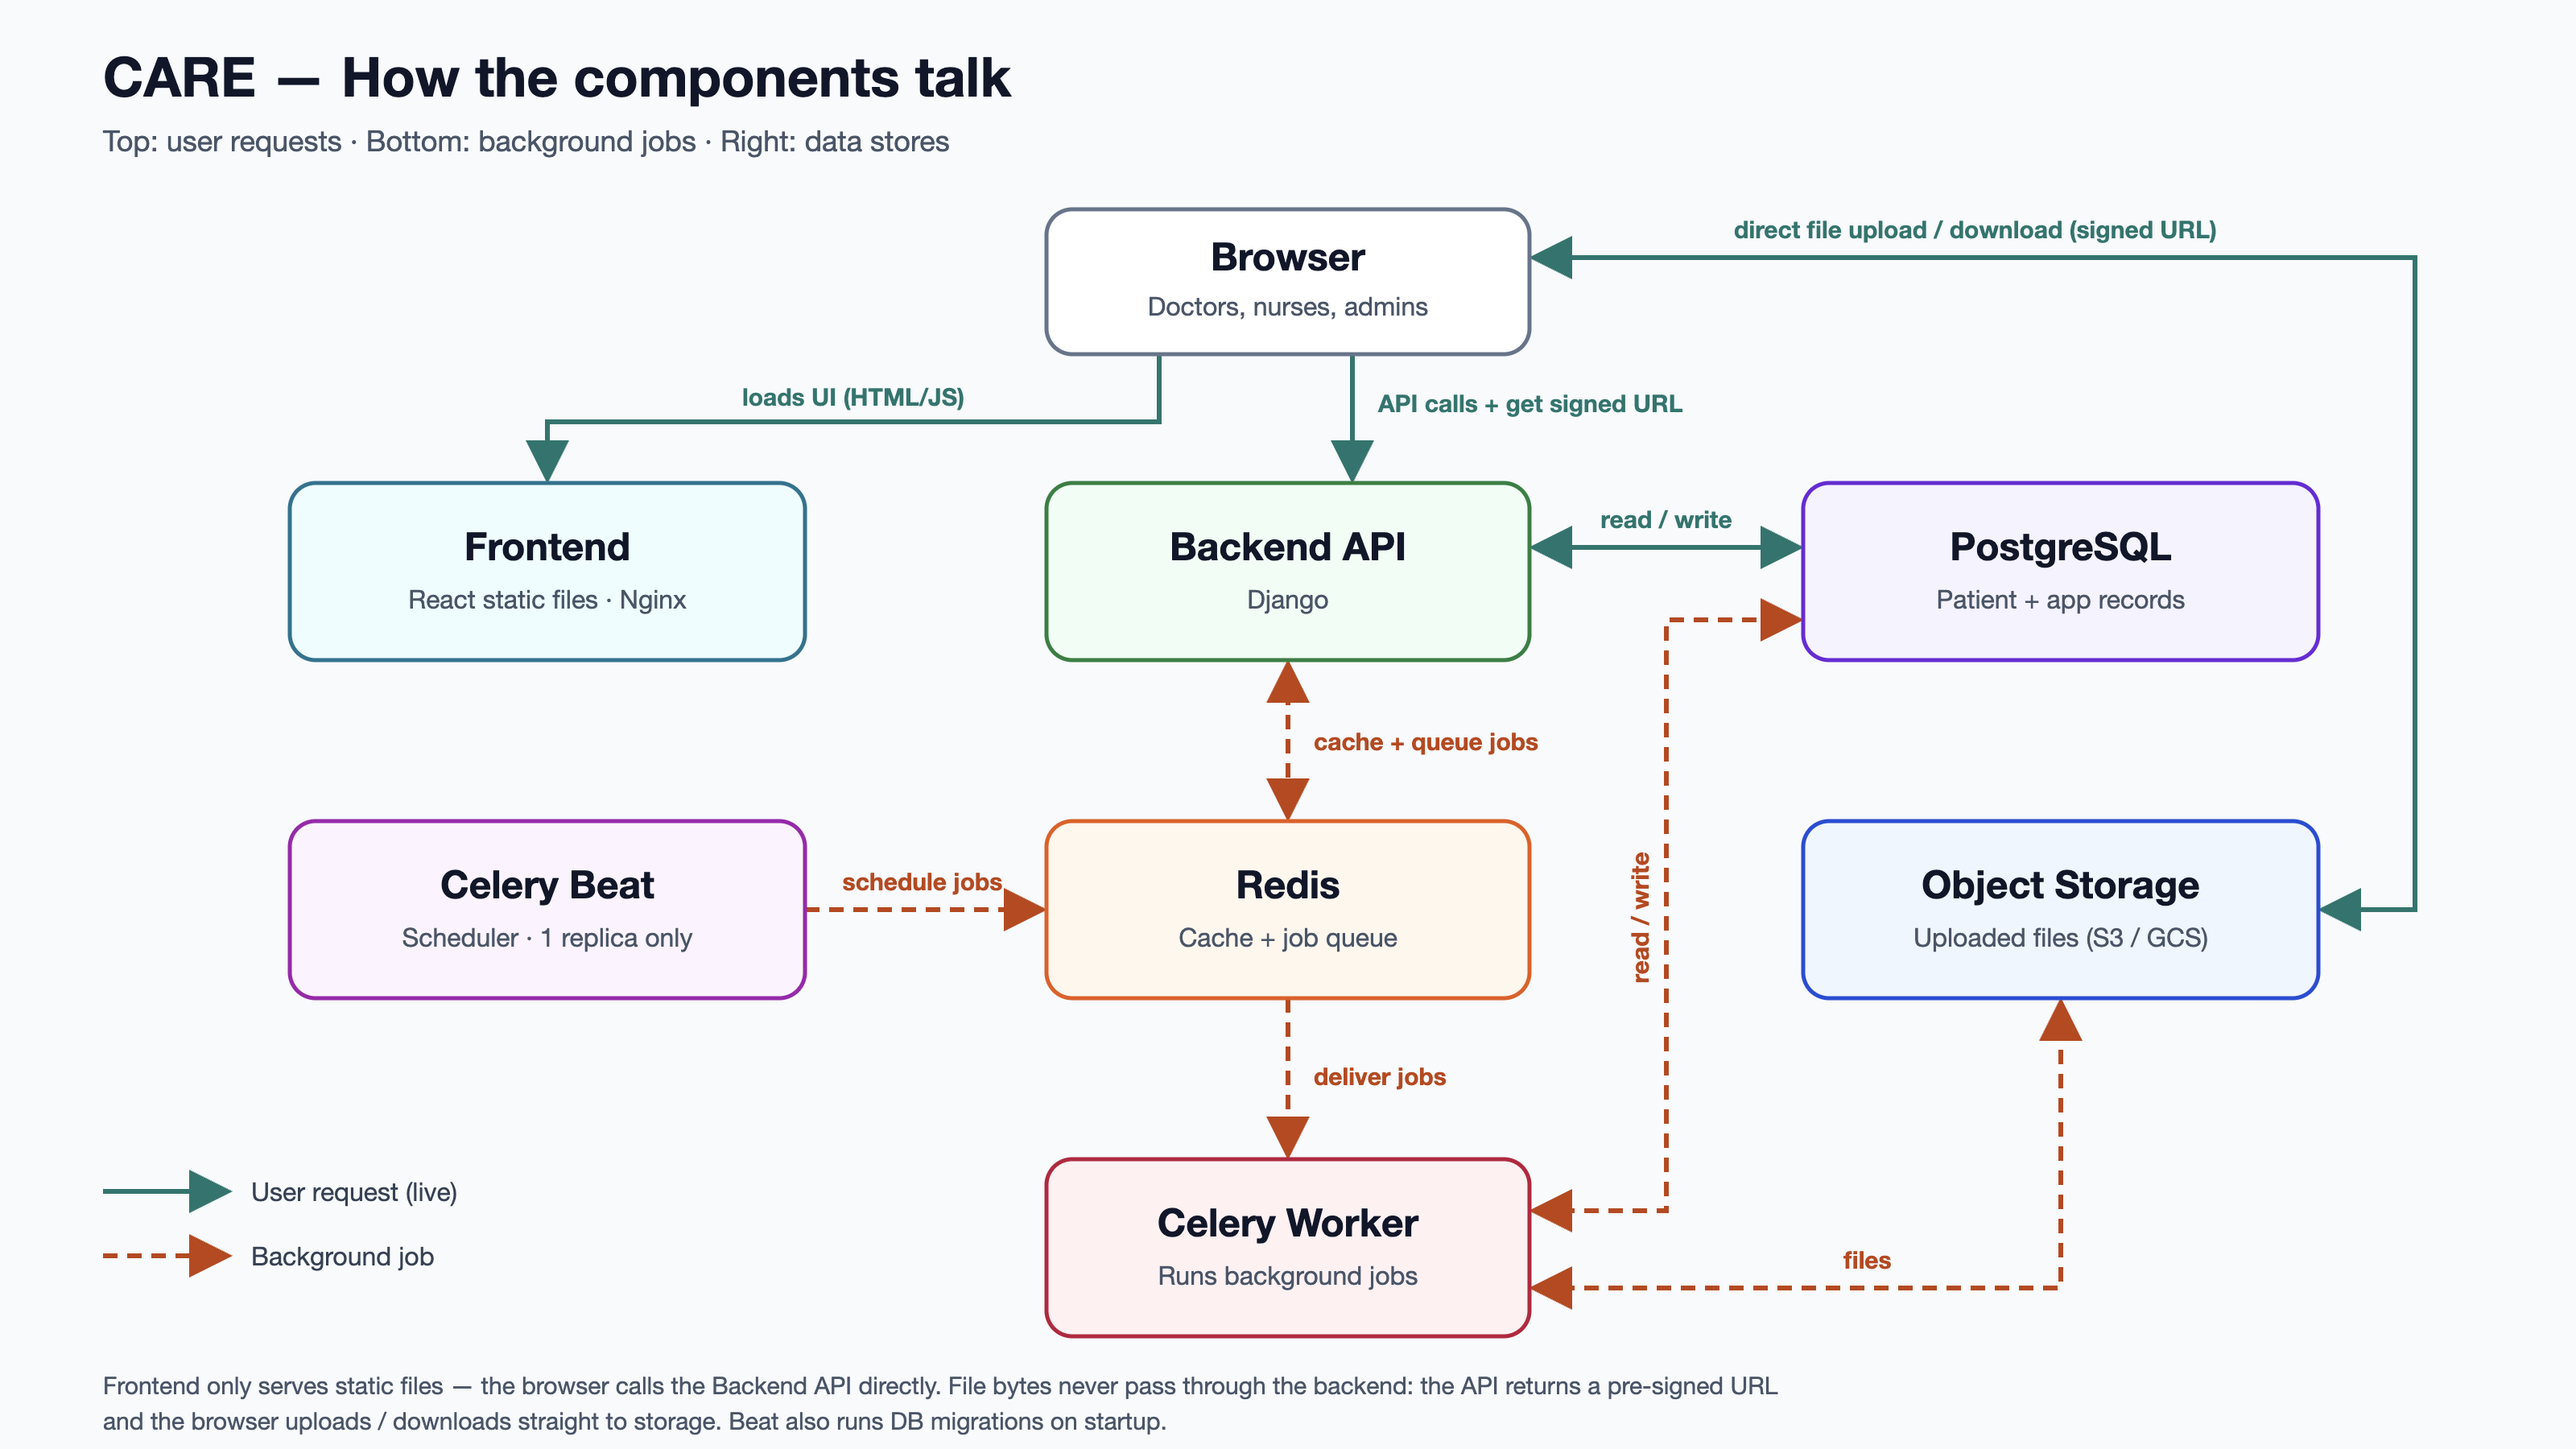
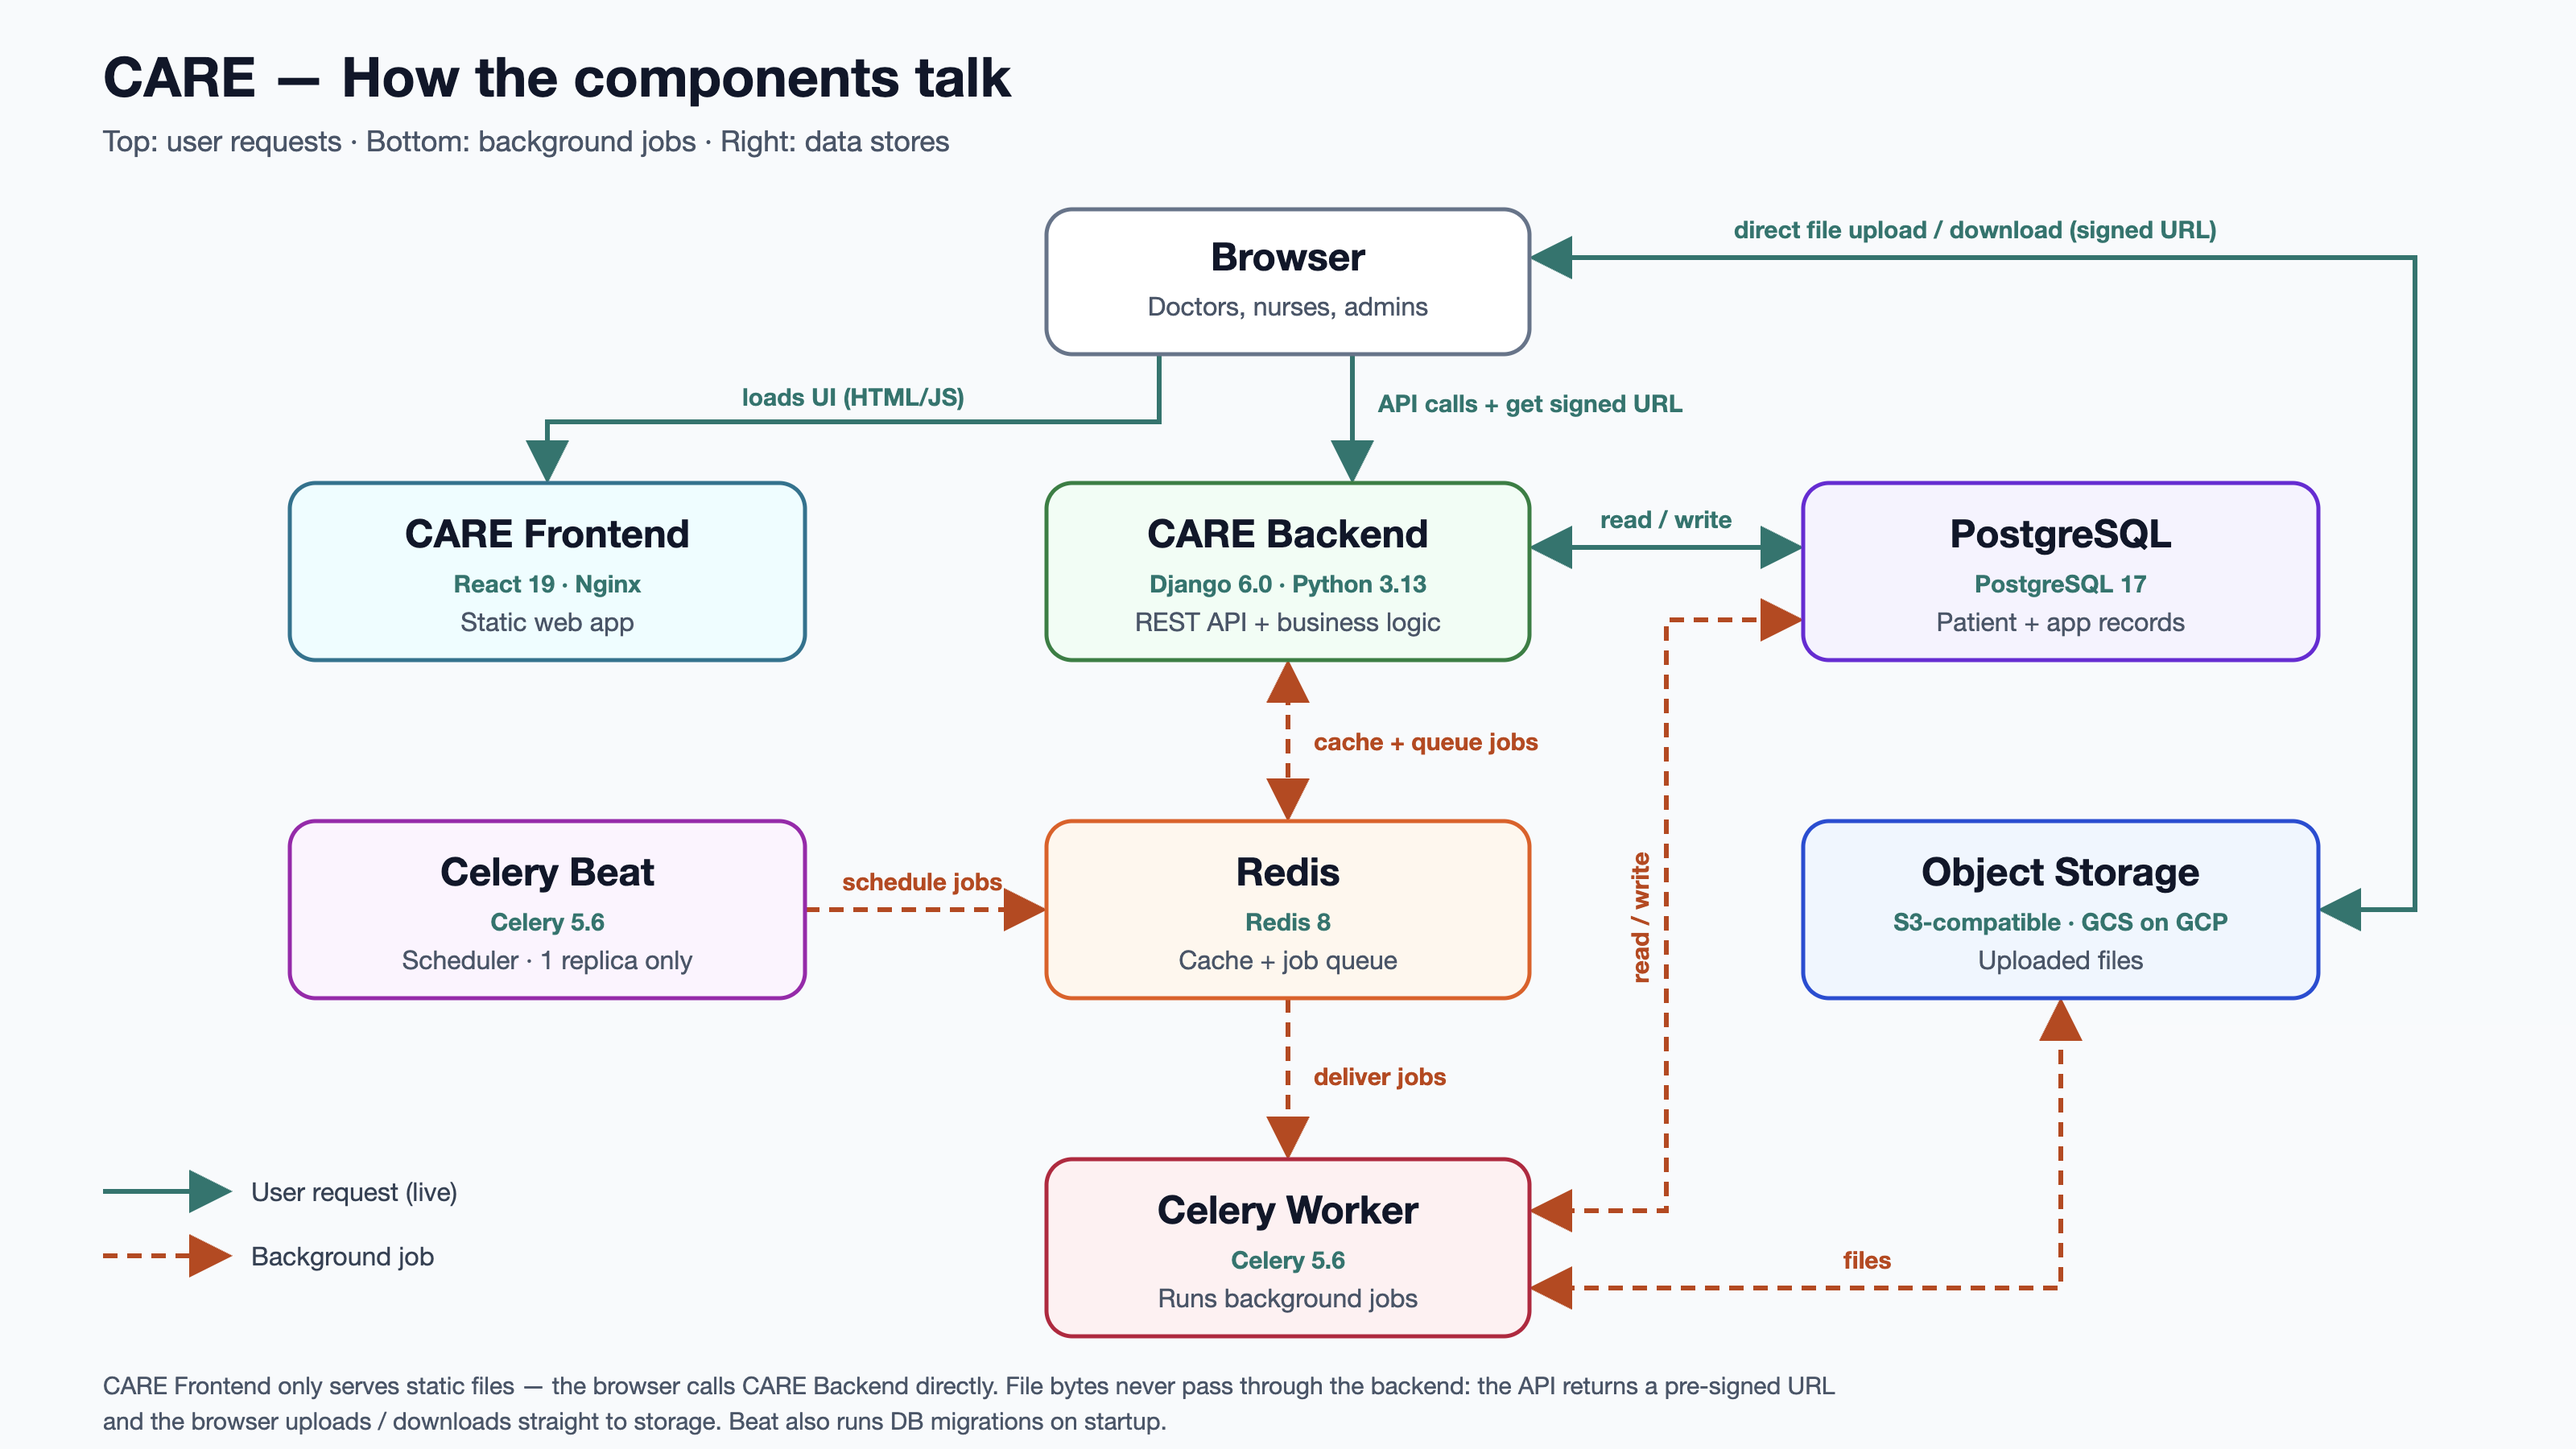
Merge tech table into diagram: versions in boxes, drop slide 3

diff --git a/docs/infra-session.html b/docs/infra-session.html
@@ -65,7 +65,7 @@
   .cover .r li{font:500 26px Switzer,sans-serif;margin:14px 0;list-style:none;color:#fff}
   .cover .r li::before{content:"/ ";color:var(--lime)}
   .diagram{flex:1;display:flex;align-items:center;justify-content:center}
-  .diagram img{max-width:100%;max-height:560px;background:#fff;border:1px solid var(--line);border-radius:12px;padding:12px}
+  .diagram img{max-width:100%;max-height:630px;background:#fff;border:1px solid var(--line);border-radius:12px;padding:12px}
   a{color:inherit;text-decoration:underline;text-decoration-color:var(--teal-2);text-underline-offset:3px} .cover .r a{color:#fff;text-decoration-color:var(--lime)}
   table.compact{font-size:17px} table.compact td{padding:7px 10px}
   .note{border:1px solid var(--line);border-left:4px solid var(--teal);background:#fff;padding:14px 20px;border-radius:10px;font-size:19px}
@@ -91,27 +91,10 @@
 <section class="slide">
   <div class="kicker">Infra requirements · Tech stack</div>
   <h1>How the pieces talk to each other</h1>
-  <div class="diagram"><img src="tech-stack-runtime-diagram-v6.svg" alt="CARE runtime diagram"></div>
-  <p class="src">Browser loads the React bundle from Nginx, then calls the Django API. For files, the API returns a pre-signed URL and the browser uploads/downloads directly to object storage — file bytes never pass through the backend. Celery workers read/write storage directly. Beat is the single scheduler.</p>
+  <div class="diagram"><img src="tech-stack-runtime-diagram-v6.svg?v=2" alt="CARE runtime diagram"></div>
 </section>
 
 <!-- 3 -->
-<section class="slide">
-  <div class="kicker">Infra requirements · Tech stack</div>
-  <h1>Technology per component</h1>
-  <table>
-    <tr><th>Component</th><th>Technology</th><th>What it does</th></tr>
-    <tr><td><b>CARE Frontend</b></td><td>React 19</td><td>The web app users see</td></tr>
-    <tr><td><b>CARE Backend</b></td><td>Django 6.0 (Python 3.13)</td><td>Handles all requests and business logic</td></tr>
-    <tr><td><b>Celery Worker</b></td><td>Celery 5.6</td><td>Runs background jobs</td></tr>
-    <tr><td><b>Celery Beat</b></td><td>Celery 5.6</td><td>Schedules recurring jobs (only one runs)</td></tr>
-    <tr><td><b>PostgreSQL</b></td><td>PostgreSQL 17</td><td>Stores patient and app data</td></tr>
-    <tr><td><b>Redis</b></td><td>Redis 8</td><td>Cache and job queue</td></tr>
-    <tr><td><b>Object storage</b></td><td>Any S3-compatible storage (GCS on GCP)</td><td>Stores uploaded files</td></tr>
-  </table>
-</section>
-
-<!-- 4 -->
 <section class="slide">
   <div class="kicker">Infra requirements · Deployment modes</div>
   <h1>Container-based, runs anywhere</h1>
@@ -127,7 +110,7 @@
   </div>
 </section>
 
-<!-- 5 -->
+<!-- 4 -->
 <section class="slide">
   <div class="kicker">Infra requirements · gcp_template</div>
   <h1>The official GCP blueprint</h1>
@@ -140,7 +123,7 @@
   </div>
 </section>
 
-<!-- 6 -->
+<!-- 5 -->
 <section class="slide">
   <div class="kicker">Infra requirements · Components</div>
   <h1>Core vs optional components</h1>
@@ -156,7 +139,7 @@
   </div>
 </section>
 
-<!-- 7 -->
+<!-- 6 -->
 <section class="slide">
   <div class="kicker">Infra requirements · Hardware</div>
   <h1>Per-component resources</h1>
@@ -164,7 +147,7 @@
   <p class="src">CPU / memory = what to reserve per copy (Helm chart requests). Actual use is from running instances. Leave headroom — the backend can burst to 1.5 vCPU / 2 GB per copy.</p>
 </section>
 
-<!-- 8 -->
+<!-- 7 -->
 <section class="slide">
   <div class="kicker">Infra requirements · Sizing</div>
   <h1>What real instances run today</h1>
@@ -172,7 +155,7 @@
   <div class="note" style="margin-top:22px"><b>Takeaway:</b> a full CARE HMIS instance runs today on about <b>9–13 vCPU and 32–48 GB of memory</b> in total, including the database. Most of it sits idle — CPU use stays under 25%.</div>
 </section>
 
-<!-- 9 -->
+<!-- 8 -->
 <section class="slide">
   <div class="kicker">Infra requirements · Sizing</div>
   <h1>Baseline to start with</h1>
@@ -184,7 +167,7 @@
   <p class="src">These are the defaults we ship and they work in most cases. You are free to change node size and per-component resources to fit your load.</p>
 </section>
 
-<!-- 10 -->
+<!-- 9 -->
 <section class="slide">
   <div class="kicker">Scoping &amp; provisioning</div>
   <h1>Autoscaling with HPA</h1>
@@ -196,7 +179,7 @@
   <figure style="margin:22px 0 0"><img src="celery-worker-hpa-sample.png" alt="Celery worker replicas over a day" style="width:100%;max-height:300px;object-fit:contain;border-radius:10px"><figcaption class="src">Example from a live instance: workers sit at 2 overnight, scale up to 8 from about 10 AM as tasks queue up, and drop back to 2 by mid-afternoon.</figcaption></figure>
 </section>
 
-<!-- 11 -->
+<!-- 10 -->
 <section class="slide">
   <div class="kicker">Scoping &amp; provisioning</div>
   <h1>Checklist</h1>
@@ -206,7 +189,7 @@
   </div>
 </section>
 
-<!-- 12 -->
+<!-- 11 -->
 <section class="slide">
   <div class="kicker">Costing estimations</div>
   <h1>Monthly cost of one gcp_template instance</h1>
@@ -215,7 +198,7 @@
   <p class="src">Estimate from Google list prices (asia-south1) × provisioned resources. Not a billing export.</p>
 </section>
 
-<!-- 13 -->
+<!-- 12 -->
 <section class="slide">
   <div class="kicker">Environment setup · Staging</div>
   <h1>Staging: configure, test, train</h1>
@@ -232,7 +215,7 @@
   </div>
 </section>
 
-<!-- 14 -->
+<!-- 13 -->
 <section class="slide">
   <div class="kicker">Environment setup · Production</div>
   <h1>Production: an approved copy of staging</h1>
@@ -250,7 +233,7 @@
   </div>
 </section>
 
-<!-- 15 -->
+<!-- 14 -->
 <section class="slide">
   <div class="kicker">Environment setup · Metabase</div>
   <h1>Dashboards with Metabase</h1>
@@ -260,7 +243,7 @@
   </div>
 </section>
 
-<!-- 16 -->
+<!-- 15 -->
 <section class="slide cover">
   <div class="l"><div class="kicker">Recap</div><h1>Start small, scale on signals</h1>
     <p class="muted">3 small nodes + a 2-vCPU Postgres runs a real state HMIS today. Use HPA for API and workers, promote staging → production by commit, and add Metabase only when you need analytics.</p></div>
